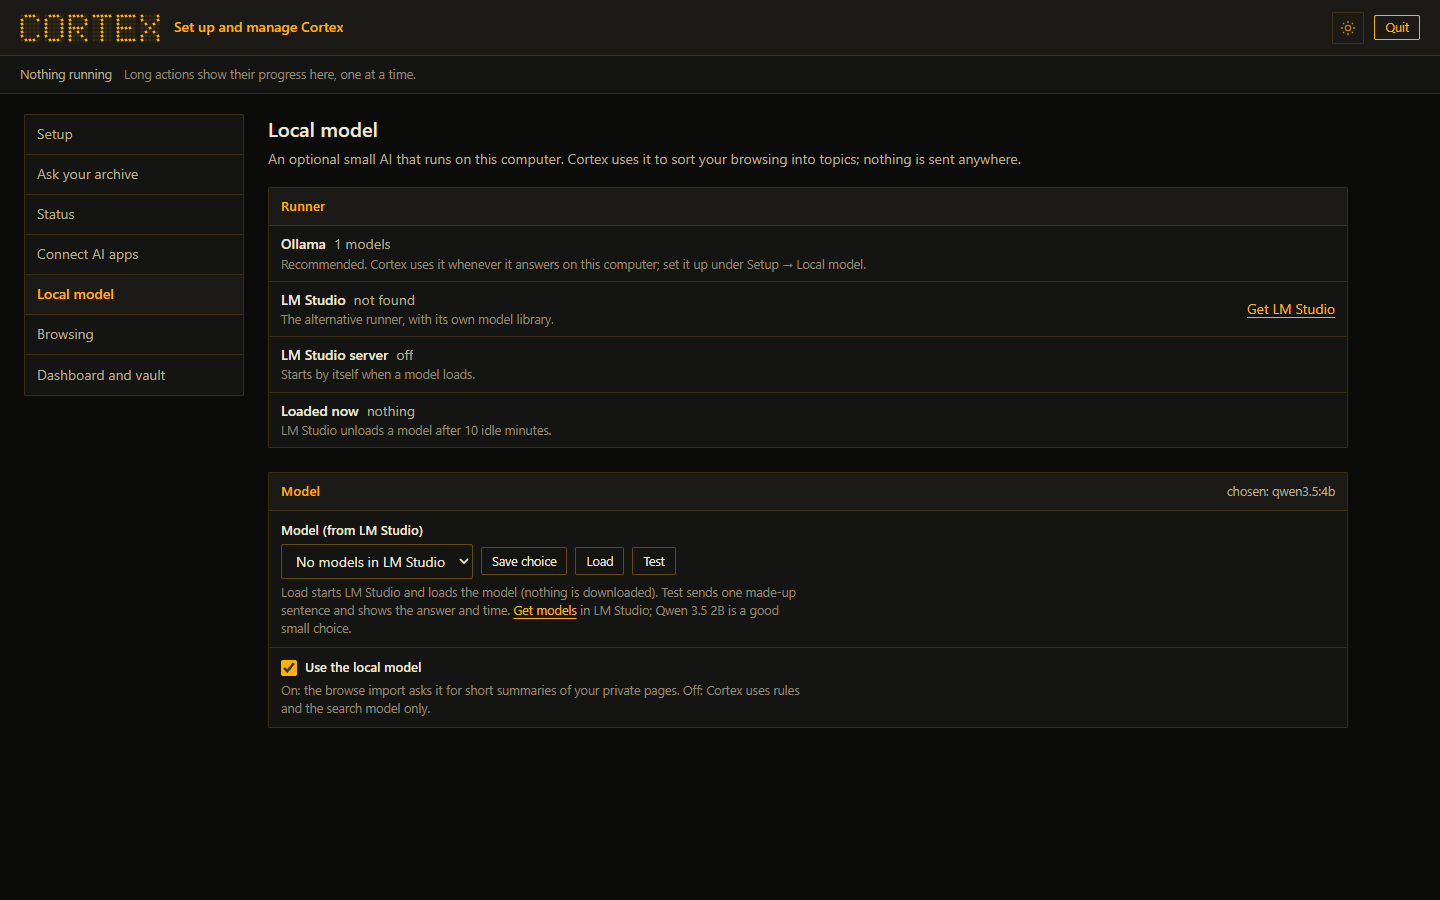
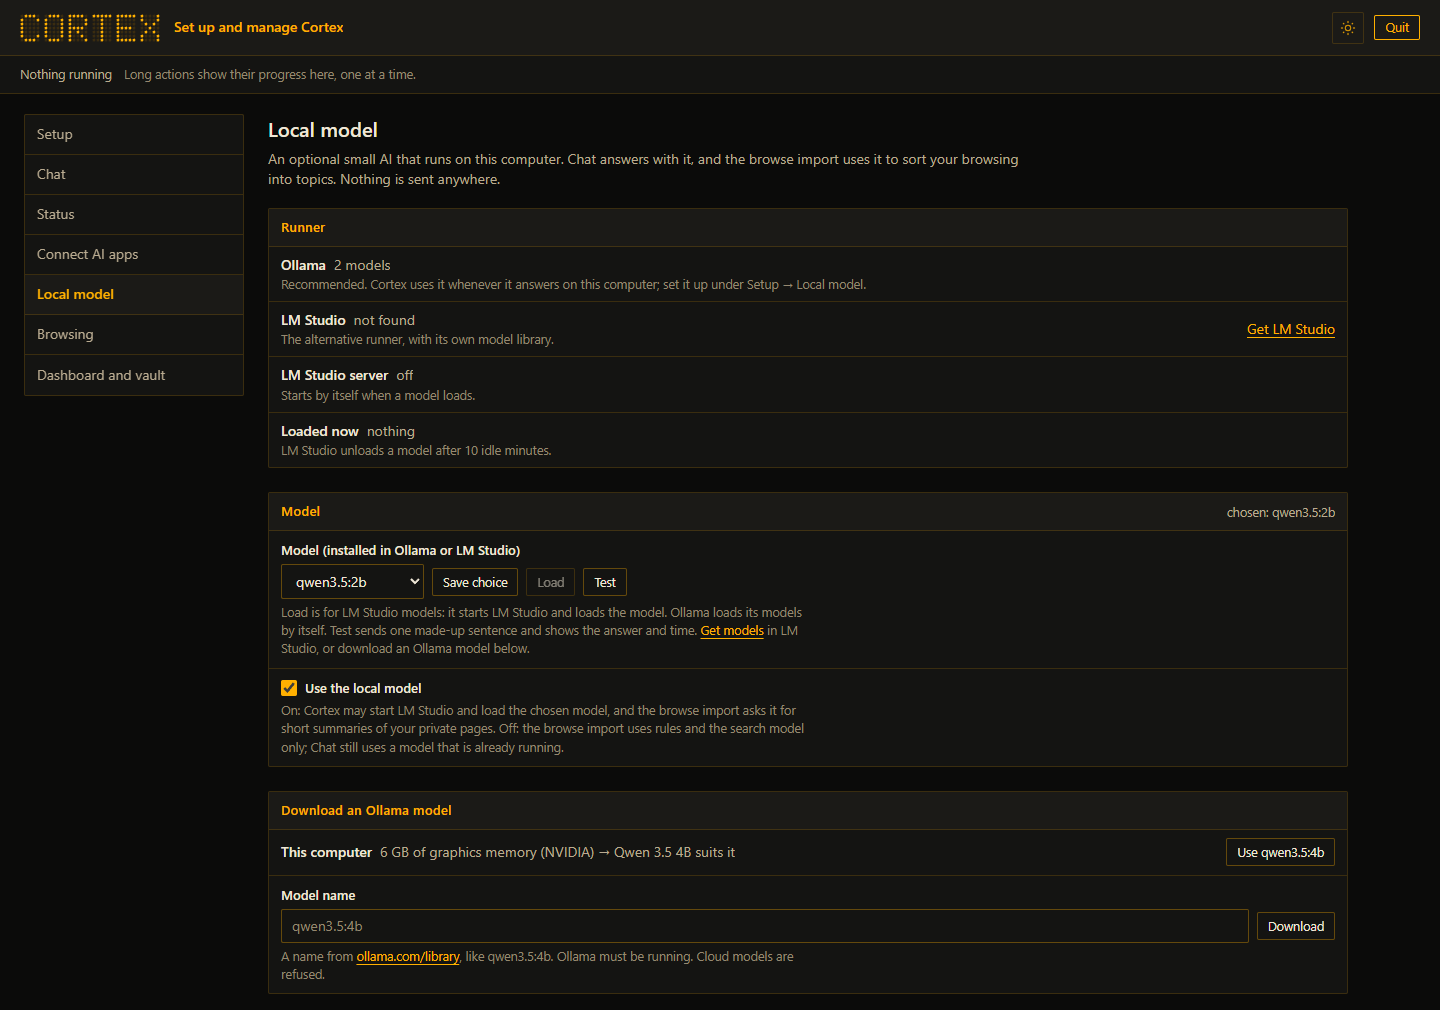
Local model page: says Chat uses the model too, and what the on switch changes; new screenshot (demo models)

diff --git a/src/cortex/assets/app/app.js b/src/cortex/assets/app/app.js
@@ -694,7 +694,7 @@
         h('p', { class: 'help' }, 'Load is for LM Studio models: it starts LM Studio and loads the model. Ollama loads its models by itself. Test sends one made-up sentence and shows the answer and time. ',
           ext('https://lmstudio.ai/models', 'Get models'), ' in LM Studio, or download an Ollama model below.')),
       h('div', { class: 'field' }, h('label', { class: 'check' }, enabled, h('span', { text: 'Use the local model' })),
-        h('p', { class: 'help', text: 'On: the browse import asks it for short summaries of your private pages. Off: Cortex uses rules and the search model only.' })));
+        h('p', { class: 'help', text: 'On: Cortex may start LM Studio and load the chosen model, and the browse import asks it for short summaries of your private pages. Off: the browse import uses rules and the search model only; Chat still uses a model that is already running.' })));
     // download another Ollama model by name; the list above reloads when the job ends
     const name = h('input', { type: 'text', id: 'llm-pull', placeholder: 'qwen3.5:4b', spellcheck: 'false', autocomplete: 'off' });
     const pull = () => { const v = name.value.trim(); if (v) job('/api/llm/pull', { name: v }); else toast('Type a model name first.'); };

diff --git a/src/cortex/assets/app/index.html b/src/cortex/assets/app/index.html
@@ -68,7 +68,7 @@
     </section>
     <section id="s-llm" hidden tabindex="-1">
       <h1>Local model</h1>
-      <p class="lede">An optional small AI that runs on this computer. Cortex uses it to sort your browsing into topics; nothing is sent anywhere.</p>
+      <p class="lede">An optional small AI that runs on this computer. Chat answers with it, and the browse import uses it to sort your browsing into topics. Nothing is sent anywhere.</p>
       <div id="llm"></div>
     </section>
     <section id="s-browse" hidden tabindex="-1">

diff --git a/README.md b/README.md
@@ -61,7 +61,7 @@ Cortex keeps a model of you as a learner and a store of what you know, in a fold
 
 **Local model** shows the runner (Ollama or LM Studio) and the chosen model.
 
-![Local model: Ollama with one model, LM Studio not found, the chosen model and the on switch](docs/images/app-local-model.png)
+![Local model: Ollama with two models, LM Studio not found, the chosen model, the on switch and the Download board with the size this computer suits](docs/images/app-local-model.png)
 
 ### The dashboard
 
